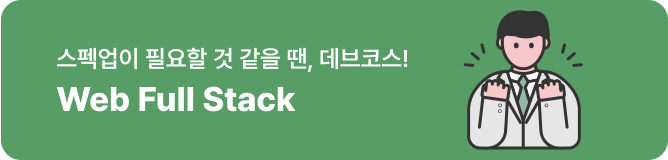
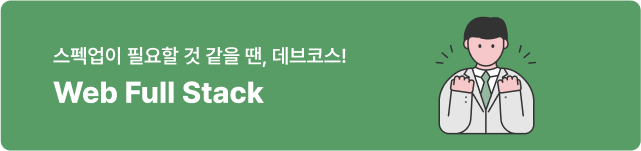
슬라이드 배너 이미지 사이즈 수정, 그냥 화면 꽉차게 변경

diff --git a/src/components/MainPage/MainSlideBanner.tsx b/src/components/MainPage/MainSlideBanner.tsx
@@ -20,32 +20,16 @@ const MainSlideBanner = () => {
         pagination={{ type: "fraction" }}
       >
         <SwiperSlide>
-          <img
-            src={MainBannerImage01}
-            alt="배너 1"
-            style={{ width: "100%", height: "auto" }}
-          />
+          <img className="slidebanner" src={MainBannerImage01} alt="배너 1" />
         </SwiperSlide>
         <SwiperSlide>
-          <img
-            src={MainBannerImage02}
-            alt="배너 2"
-            style={{ width: "100%", height: "auto" }}
-          />
+          <img className="slidebanner" src={MainBannerImage02} alt="배너 2" />
         </SwiperSlide>
         <SwiperSlide>
-          <img
-            src={MainBannerImage03}
-            alt="배너 3"
-            style={{ width: "100%", height: "auto" }}
-          />
+          <img className="slidebanner" src={MainBannerImage03} alt="배너 3" />
         </SwiperSlide>
         <SwiperSlide>
-          <img
-            src={MainBannerImage04}
-            alt="배너 4"
-            style={{ width: "100%", height: "auto" }}
-          />
+          <img className="slidebanner" src={MainBannerImage04} alt="배너 4" />
         </SwiperSlide>
       </Swiper>
     </MainSlideBannerStyle>
@@ -53,7 +37,6 @@ const MainSlideBanner = () => {
 };
 
 const MainSlideBannerStyle = styled.div`
-  padding: 0 30px;
   box-sizing: border-box;
   width: 100%;
   max-width: 380px;
@@ -75,6 +58,12 @@ const MainSlideBannerStyle = styled.div`
       color: #fff;
       font-weight: 400;
     }
+  }
+
+  .slidebanner {
+    width: 100%;
+    min-width: 320px;
+    height: auto;
   }
 `;
 
